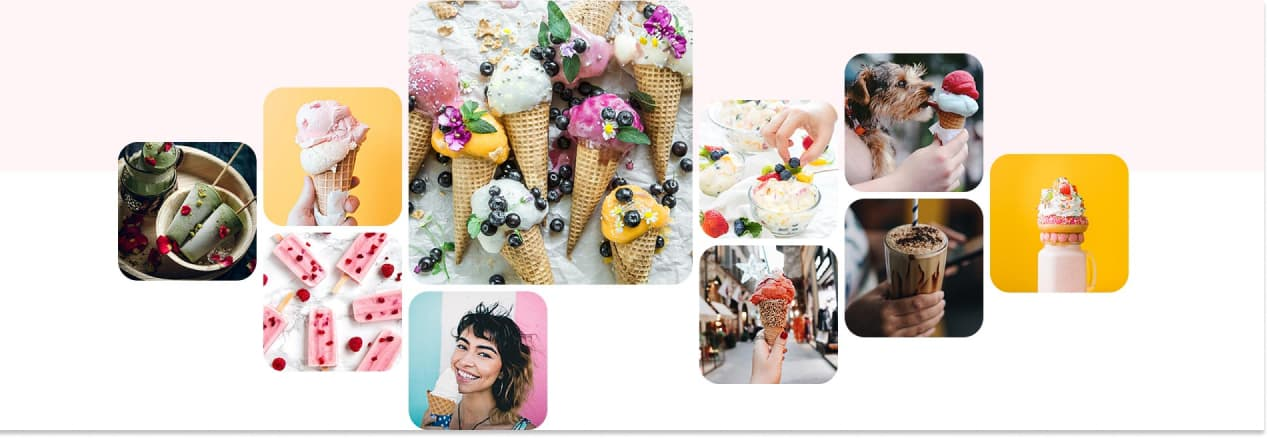
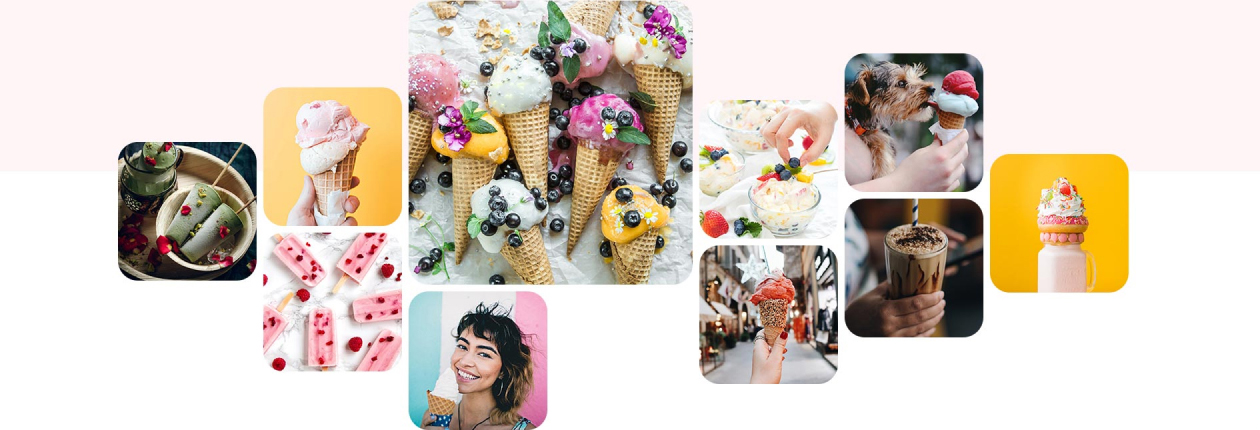
прикрепила картинки

Changed region(s): [[0.0, 0.0, 1.0, 1.0], [0.1857, 0.2116, 0.2167, 0.2419]]

diff --git a/src/sass/layout/_gallery.scss b/src/sass/layout/_gallery.scss
@@ -1,20 +1,31 @@
 .gallery {
-  // padding: 50px 0 40px;
-  height: 122px;
-  background-size: cover;
-  background: $body-background-color;
-  background-image: url('../images/gallery/mobile/ice-cream-mob.jpg');
-
-  @media screen and (min-width: 768px) {
-    // padding: 70px 0 60px;
-    height: 264px;
+  @media screen and (max-width: 767px) {
+    // padding: 50px 0 40px;
+    min-height: 122px;
+    // background-size: cover;
+    background-size: contain;
+    // background-position: 50% 50%;
+    background-repeat: no-repeat;
+    // background-color: $section-background-color;
+    // background: $body-background-color;
+    // background-image: linear-gradient(
+    //   to bottom,
+    //   $section-background-color 40%,
+    //   $body-background-color 40%
+    // );
+    background-image: url('../images/gallery/mobile/ice-cream-mob.jpg');
   }
 
-  @media screen and (min-width: 1200px) {
-    // padding: 80px 0 50px;
-    height: 430px;
-    filter: drop-shadow(0px 4px 4px rgba(0, 0, 0, 0.25));
-  }
+  // @media screen and (min-width: 768px) and (max-width: 1199px) {
+  //   padding: 70px 0 60px;
+
+  // }
+
+  // @media screen and (min-width: 1200px) and (max-width: 1600px) {
+  //   padding: 80px 0 50px;
+
+  //   filter: drop-shadow(0px 4px 4px rgba(0, 0, 0, 0.25));
+  // }
 }
 
 @media screen and (min-devicel-ratio: 2),
@@ -25,9 +36,11 @@
   }
 }
 
-@media screen and (min-width: 768px) {
+@media screen and (min-width: 768px) and (max-width: 1199px) {
   .gallery {
-    max-width: 768px;
+    // max-width: 768px;
+    min-height: 264px;
+    background-size: cover;
     margin: 0 auto;
     background-image: url('../images/gallery/tablet/ice-cream-tabl.jpg');
   }
@@ -44,6 +57,11 @@
 @media screen and (min-width: 1200px) {
   .gallery {
     max-width: 1600px;
+    min-height: 430px;
+    // background-size: cover;
+    background-repeat: no-repeat;
+    // filter: drop-shadow(0px 4px 4px rgba(0, 0, 0, 0.25));
+    filter: drop-shadow(0px 4px 4px 4px rgba(0, 0, 0, 0.25));
     background-image: url('../images/gallery/desktop/ice-cream-desk.jpg');
   }
 }
